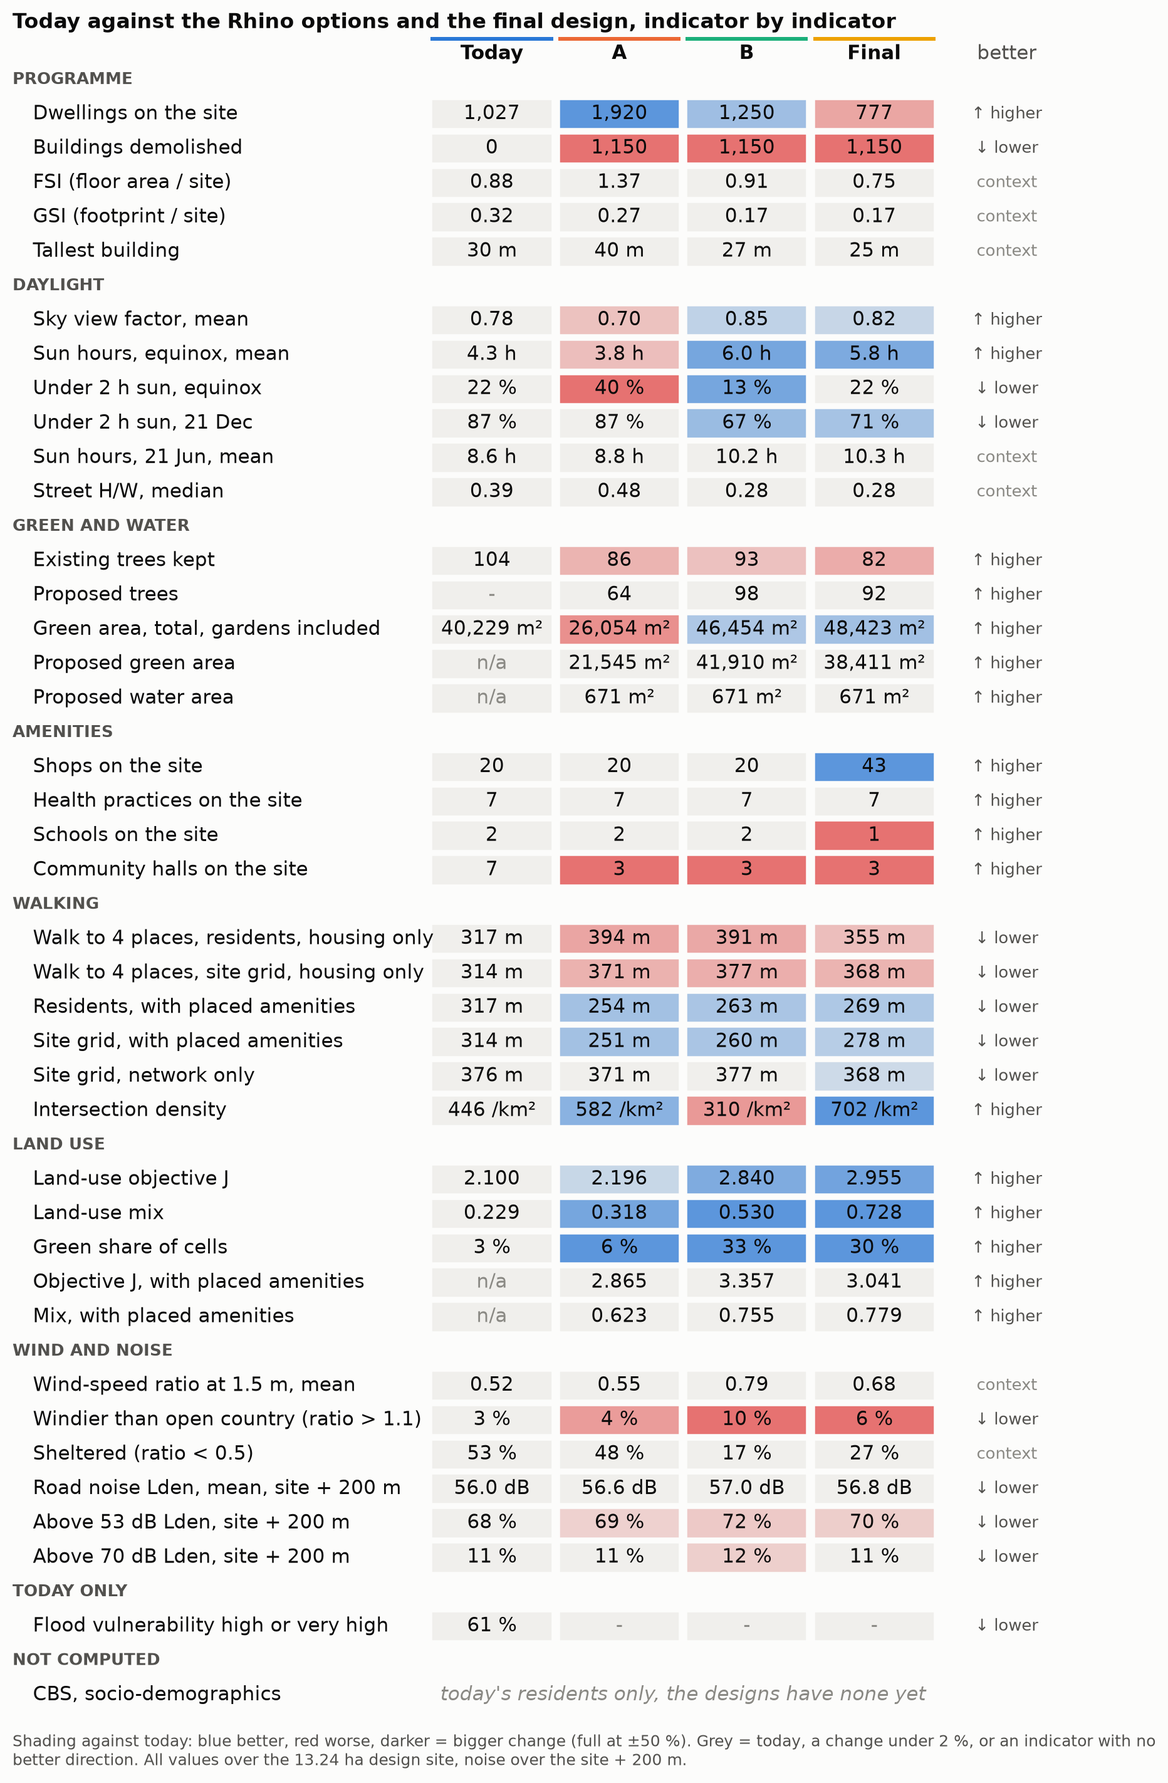
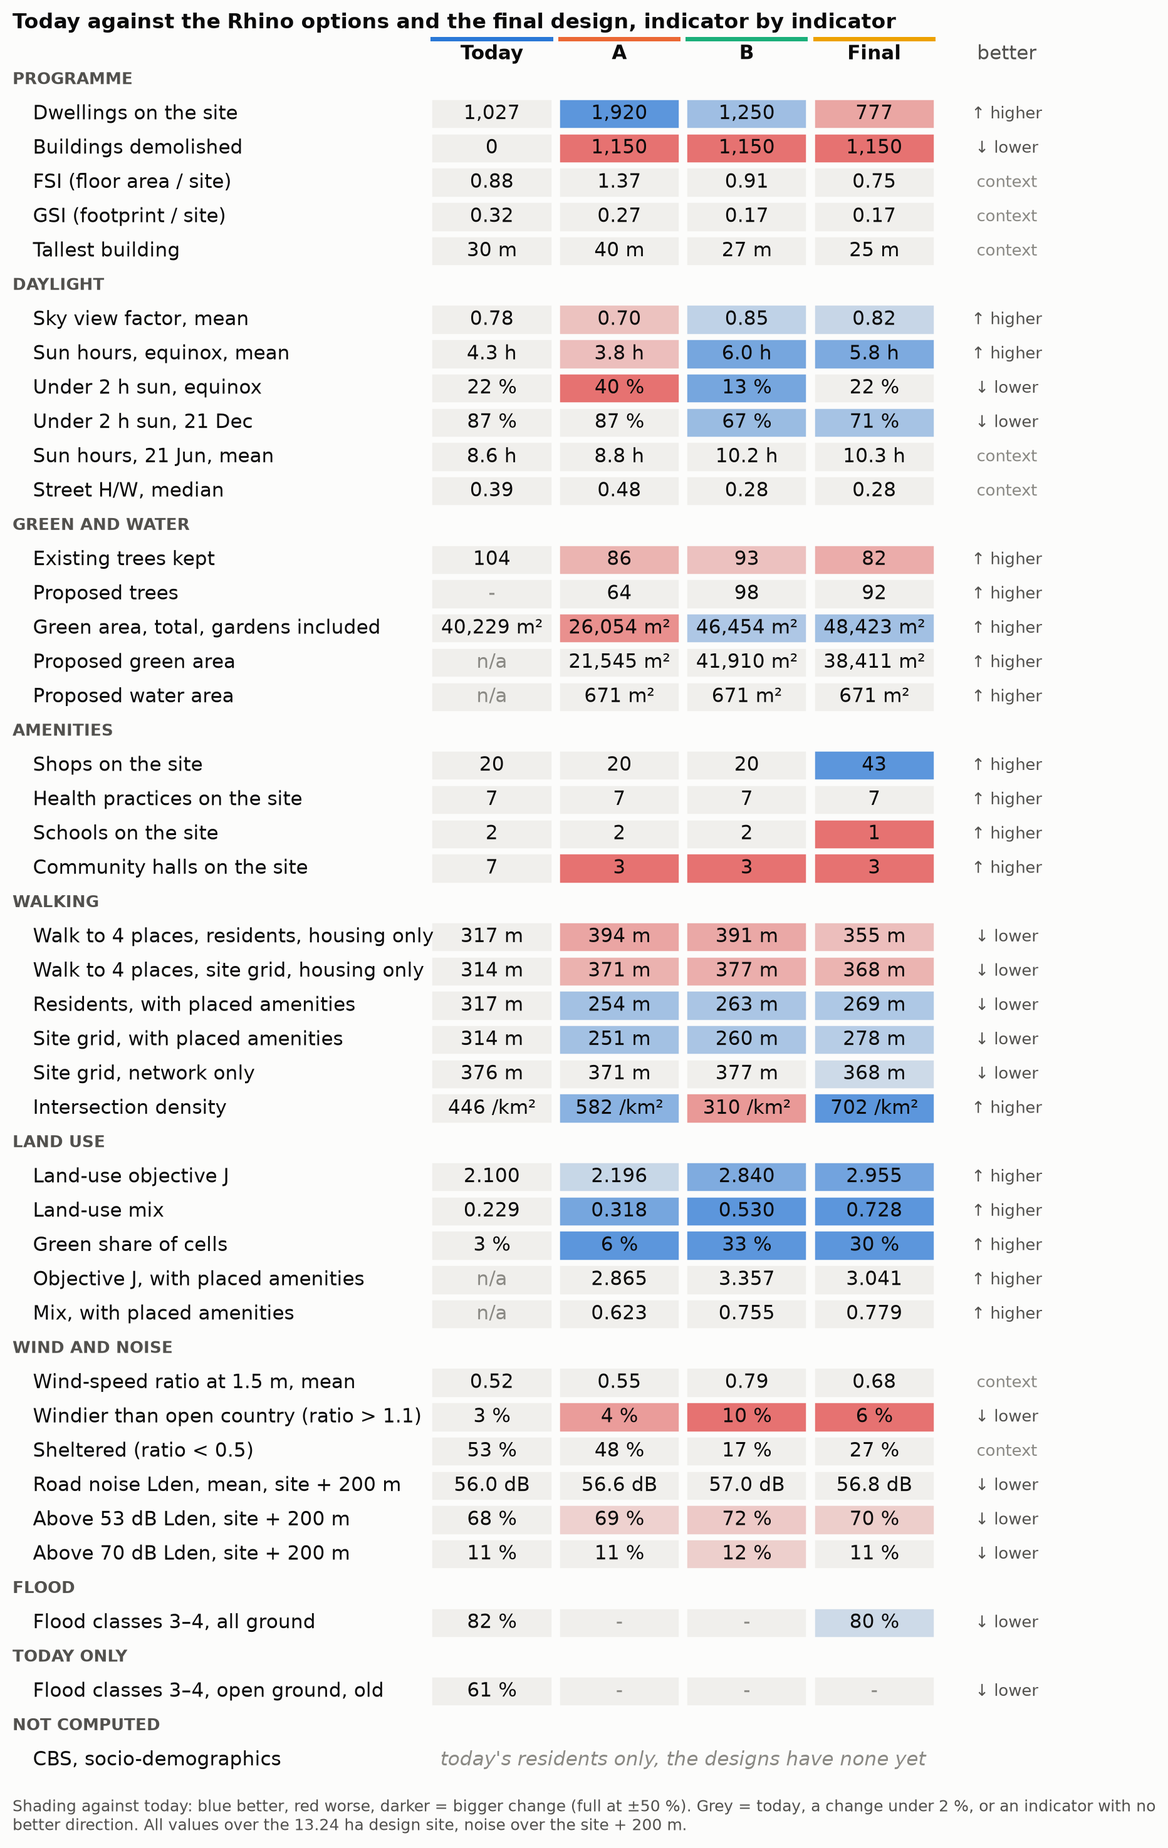
Flood: today reclassified with the new method, so today and the final design compare
Cyrille's OverallRiskOldReclassified.tif is today's city run with the method of the
final massing run. Outside the design site the two agree in all but 83 of 17.1 million
cells. Both now sit on one layer, overall_new, and the final run is no longer flagged.
The old seven layers stay as today's. The flood card compares today and the final
design, and the scenario comparison gains the classes 3-4 share (82 % today, 80 % final).

diff --git a/app/modules/flood.js b/app/modules/flood.js
@@ -14,10 +14,12 @@
  * Each checkbox follows the scenario switch, like the wind and noise maps: it
  * shows flood_summary[_scenario].json's image for the selected scenario. A
  * design scenario without a run shows nothing (with a notice), rather than
- * today's map under the new buildings. The final design has an overall run
- * since 2026-11-03, made with a newer method, so it is flagged as not
- * comparable with today's map, on the map and in the card. Elevation is the AHN DTM, empty under buildings, so
- * hazard / combined / overall describe open ground.
+ * today's map under the new buildings. Elevation is the AHN DTM, empty under
+ * buildings, so hazard / combined / overall describe open ground.
+ *
+ *   overall_new = overall vulnerability with Cyrille's 2026-11-03 method, on all
+ *                 ground, for today and the final design (since 2026-11-03).
+ *                 The card compares the two; the old layers are today only.
  * ========================================================================== */
 
 export async function setup(ctx) {
@@ -67,7 +69,6 @@ export async function setup(ctx) {
           const layer = viewer.imageryLayers.addImageryProvider(p);
           layer.alpha = 0.8;
           layer.show = false;  //refresh() decides
-          layer.notComparable = sum.comparable_with_baseline === false;  //a run made with a newer method than today's
           return layer;
         }).catch((err) => {
           console.warn(`[flood] ${L.id} overlay failed for ${sc}`, err);
@@ -81,8 +82,6 @@ export async function setup(ctx) {
       const want = current;
       if (on) load(want).then((l) => {
         if (!l && on && want === current) ctx.note(`${L.label}: no run for ${want}`, "warn");
-        if (l?.notComparable && on && want === current)  //say so whenever the flagged map is shown
-          ctx.note(`${L.label}, ${want}: newer method than today's map, do not compare the two`, "warn");
       });
       //each image decides when it resolves, from the state at that moment
       for (const [sc, p] of images) p.then((l) => {
@@ -101,27 +100,28 @@ export async function setup(ctx) {
   }
 
   /* ---- panel: overall vulnerability shares per area ----------------------
-   * The selected scenario's figures when it has a run, else today's, said so. */
+   * The new method's table compares today with the selected design when it has
+   * a run; the old method's table is today only. */
   const pct = (v) => (v == null ? "—" : `${Math.round(v * 100)}`);
   const swatch = (c) =>
     `<i style="width:10px;height:10px;background:${c};display:inline-block;border-radius:2px;vertical-align:-1px"></i>`;
 
-  function table(sum) {
-    const overall = sum.layers.find((l) => l.id === "overall");
-    const combined = sum.layers.find((l) => l.id === "combined");
-    const classes = overall.legend.map((x) => x.label);
+  //rows: [label, stats of one area, mean score or undefined]; mean adds the old method's combined-score column
+  function table(head, legend, rows, mean) {
+    const classes = legend.map((x) => x.label);
     return (
-      `<table class="kv"><thead><tr><th>overall, % of ground</th>` +
-      overall.legend.map((x) => `<th>${swatch(x.colour)} ${x.label.split(" ")[0]}</th>`).join("") +
-      `<th>mean score</th></tr></thead><tbody>` +
-      Object.keys(overall.stats)
-        .map((a) => {
-          const s = overall.stats[a]?.shares || {};
-          const m = combined?.stats[a]?.mean;
+      `<table class="kv"><thead><tr><th>${head}</th>` +
+      legend.map((x) => `<th>${swatch(x.colour)} ${x.label.split(" ")[0]}</th>`).join("") +
+      (mean ? `<th>mean score</th>` : `<th>3–4</th>`) + `</tr></thead><tbody>` +
+      rows
+        .map(([label, st, m]) => {
+          const s = st?.shares || {};
           return (
-            `<tr><td>${a}</td>` +
+            `<tr><td>${label}</td>` +
             classes.map((c) => `<td>${pct(s[c])}</td>`).join("") +
-            `<td>${m == null ? "—" : m.toFixed(1)}</td></tr>`
+            (mean ? `<td>${m == null ? "—" : m.toFixed(1)}</td>`
+              : `<td><b>${pct(s["3"] == null ? null : s["3"] + s["4 high"])}</b></td>`) +  //high or very high
+            `</tr>`
           );
         })
         .join("") +
@@ -130,20 +130,26 @@ export async function setup(ctx) {
   }
 
   async function render(sc) {
-    const sum = await summaryFor(sc);
+    const sum = sc === "baseline" ? data : await summaryFor(sc);
     if (sc !== current) return;  //switched again while loading
-    const own = sum?.layers?.some((l) => l.id === "overall");
+    const overall = data.layers.find((l) => l.id === "overall");
+    const combined = data.layers.find((l) => l.id === "combined");
+    const today = data.layers.find((l) => l.id === "overall_new");  //today's run with the new method
+    const run = sc === "baseline" ? null : sum?.layers?.find((l) => l.id === "overall_new");  //the design's
+    const rows = today ? Object.keys(today.stats).flatMap((a) =>
+      [[`${a}, today`, today.stats[a]], ...(run ? [[`${a}, ${sc}`, run.stats[a]]] : [])]) : [];
     body.innerHTML =
-      (own || sc === "baseline" ? ""
-        : `<p class="muted"><b>No flood run for ${sc}.</b> The table shows today's city; ` +
+      (sc === "baseline" || run ? ""
+        : `<p class="muted"><b>No flood run for ${sc}.</b> The tables show today's city; ` +
           `the map layers stay empty on this scenario.</p>`) +
-      (own && sum.comparable_with_baseline === false  //a run with a newer method: flagged above its table
-        ? `<p class="muted"><b>Overall vulnerability only, newer method.</b> ${sum.method_note}</p>` : "") +
-      table(own ? sum : data) +
+      (today ? table("new method, % of all ground", today.legend, rows) +
+        `<p class="muted">${today.method_note}</p>` : "") +
+      table("old method, % of open ground, today", overall.legend,
+        Object.keys(overall.stats).map((a) => [a, overall.stats[a], combined?.stats[a]?.mean]), true) +
       `<p class="muted">Each factor is scored 1–4: distance to water (0–50 m = 4), ground ` +
       `level (below −0.99 m NAP = 4) and buildings per cell (more than 10 = 4). The combined ` +
-      `score is their sum; <em>overall</em> bands it into four classes. Ground level comes from ` +
-      `AHN, which is empty under buildings, so these describe the open ground. Analysis by ` +
+      `score is their sum; <em>overall</em> bands it into four classes. In the old method ground level comes from ` +
+      `AHN, which is empty under buildings, so its layers describe the open ground. Analysis by ` +
       `Cyrille (QGIS); layers under <em>Flood vulnerability</em>, following the scenario switch.</p>`;
   }
 

diff --git a/app/modules/comparison.js b/app/modules/comparison.js
@@ -2,7 +2,7 @@
  * modules/comparison.js - component 9: scenario comparison
  * OWNER: Atanas Malinkov
  *
- * Today against the two Rhino options on the design site, one row per
+ * Today against the Rhino options and the final design on the site, one row per
  * indicator, written by analysis/comparison/compare_scenarios.py into
  *   data/processed/scenario_comparison.json
  * Each scenario cell shows the value and its change against today, green when
@@ -36,13 +36,14 @@ const ROWS = [  //key, label, digits, as a percentage
   ["wind_over11", "Windier than open country (> 1.1)", 0, true],  //OpenFOAM, open ground at 1.5 m
   ["noise_mean_db", "Road noise Lden, site + 200 m (dB)", 1, false],  //NoiseModelling
   ["noise_over53", "Above 53 dB Lden, site + 200 m", 0, true],
+  ["flood_high_new", "Flood vulnerability high or very high", 0, true],  //Cyrille's new method, all ground
 ];
 
 export async function setup(ctx) {
   const body = ctx.registerPanel({
     id: "comparison",
     title: "Scenario comparison",
-    subtitle: "design site · today against A and B",
+    subtitle: "design site · today against A, B and the final design",
     order: 7,
   });
   const data = await ctx.loadJson(PATH, { quiet: true });

diff --git a/analysis/flood/import_cyrille.py b/analysis/flood/import_cyrille.py
@@ -7,11 +7,14 @@ QGIS / QGIS Files - UPDATED / BZO_NEW_*.tif). We only clip, warp and colour it
 and summarise it per area.
 
     python analysis/flood/import_cyrille.py [RASTER_DIR]
-    python analysis/flood/import_cyrille.py --scenario final
+    python analysis/flood/import_cyrille.py --scenario baseline final
 
 RASTER_DIR defaults to cache/flood/raw/ (gitignored) and must hold the
 BZO_NEW_*.tif files in LAYERS, from the shared QGIS.zip, 76 MB each.
---scenario imports a design's run from SCENARIO_RUNS instead (overall only).
+--scenario imports the runs in SCENARIO_RUNS instead: overall vulnerability
+with Cyrille's newer method (2026-11-03), for today and the final design, as
+its own layer overall_new. Today's run goes into flood_summary.json beside the
+old seven layers.
 
 Each factor scores 1 (low) to 4 (high), per "QGIS Layer Coding.pdf"
   water proximity   0-50 / 50-100 / 100-250 / 250+ m to water      -> 4..1
@@ -81,14 +84,20 @@ LAYERS = [
      "about": "road distance to water, scored 1–4"},
 ]
 
-#design runs Cyrille sent later, one overall raster each, in cache/flood/raw/
-#the final run uses a newer method than today's, so it is flagged as not comparable (Atanas, 2026-11-03)
+#overall vulnerability with Cyrille's newer method: classes 1-4 on all ground, under buildings too
+OVERALL_NEW = {**LAYERS[0], "id": "overall_new", "label": "Overall flood vulnerability, new method",
+               "about": "overall score banded into four classes, Cyrille's 2026-11-03 method, all ground"}
+NEW_METHOD = ("Cyrille's 2026-11-03 method: every cell has a class, ground under buildings "
+              "included, so it is not the old overall layer. Today and the final design were "
+              "run with it. Outside the design site, where both have a class, they agree in all "
+              "but 83 of 17.1 million cells.")
+
+#runs Cyrille sent later, one overall raster each, in cache/flood/raw/ (Atanas, 2026-11-03)
 SCENARIO_RUNS = [
-    {"scenario": "final", "layer": "overall", "file": "OverallRiskFinalMassing.tif",
-     "source": "Cyrille Kummer, QGIS, overall risk for the final massing (received 2026-11-03)",
-     "note": "Newer method than today's run. Outside the design site, where the final design "
-             "changes nothing, it matches today's classes in only 50 % of cells: class 1 is "
-             "absent and ground under buildings has a class. Not comparable with today's map."},
+    {"scenario": "baseline", "layer": OVERALL_NEW, "file": "OverallRiskOldReclassified.tif",
+     "source": "Cyrille Kummer, QGIS, today's city reclassified with the new method (received 2026-11-03)"},
+    {"scenario": "final", "layer": OVERALL_NEW, "file": "OverallRiskFinalMassing.tif",
+     "source": "Cyrille Kummer, QGIS, overall risk for the final massing (received 2026-11-03)"},
 ]
 
 
@@ -190,23 +199,24 @@ def layer_entry(L, a, tr, crs, masks, png, source_file):
 
 
 def import_scenario(run, areas):
-    #one design run: flood_<layer>_<scenario>.png and flood_summary_<scenario>.json, as today's layout
+    #one later run: flood_<layer>[_<scenario>].png, in flood_summary[_<scenario>].json
     import rasterio.features
     path = RAW / run["file"]
     if not path.exists():
         sys.exit(f"Missing {path}. Copy Cyrille's raster there (cache/ is gitignored).")
-    L = next(l for l in LAYERS if l["id"] == run["layer"])
+    L, sc = run["layer"], run["scenario"]
+    sfx = "" if sc == "baseline" else f"_{sc}"  #the baseline keeps the plain names
     a, tr, crs = read(None, path)
     masks = {n: rasterio.features.geometry_mask([p], a.shape, tr, invert=True) for n, p in areas.items()}
-    entry = layer_entry(L, a, tr, crs, masks, f"flood_{L['id']}_{run['scenario']}.png", run["file"])
-    write_processed(f"flood_summary_{run['scenario']}.json", {
-        "source": run["source"] + "; imported, not recomputed",
-        "scenario": run["scenario"],
-        "cell_size_m": 0.5,
-        "comparable_with_baseline": False,  #the app says so next to the table
-        "method_note": run["note"],
-        "layers": [entry],
-    })
+    entry = layer_entry(L, a, tr, crs, masks, f"flood_{L['id']}{sfx}.png", run["file"])
+    entry.update({"source": run["source"] + "; imported, not recomputed", "method_note": NEW_METHOD})
+    if sc == "baseline":  #today: beside the old seven layers, replacing an earlier import of this one
+        summary = json.loads((PROCESSED / "flood_summary.json").read_text())
+        summary["layers"] = [l for l in summary["layers"] if l["id"] != L["id"]] + [entry]
+    else:
+        summary = {"source": run["source"] + "; imported, not recomputed", "scenario": sc,
+                   "cell_size_m": 0.5, "layers": [entry]}
+    write_processed(f"flood_summary{sfx}.json", summary)
 
 
 def main():
@@ -246,6 +256,9 @@ def main():
                                              f"BZO_NEW_{L['file']}.tif"))
 
     write_processed("flood_summary.json", summary)
+    for run in SCENARIO_RUNS:  #today's new-method run, put back beside the old layers when its raster is here
+        if run["scenario"] == "baseline" and (RAW / run["file"]).exists():
+            import_scenario(run, areas)
 
     global summary_overall
     ov = next(l for l in summary["layers"] if l["id"] == "overall")["stats"]

diff --git a/analysis/comparison/compare_scenarios.py b/analysis/comparison/compare_scenarios.py
@@ -239,12 +239,15 @@ def amenities(sc):
 
 
 def flood(sc):
-    #Cyrille's flood vulnerability, today only
-    d = J("flood_summary.json")
-    if sc != "baseline" or not d:
-        return {}
-    sh = [l for l in d["layers"] if l["id"] == "overall"][0]["stats"]["Design site"]["shares"]
-    return {"flood_high": round(sh["3"] + sh["4 high"], 3)}
+    #Cyrille's flood vulnerability: the old method today only, the new method today and the final design
+    out = {}
+    d = J("flood_summary.json" if sc == "baseline" else f"flood_summary_{sc}.json")  #None while a stub
+    for key, lid in (("flood_high", "overall"), ("flood_high_new", "overall_new")):
+        L = next((l for l in (d or {}).get("layers", []) if l["id"] == lid), None)
+        if L and not (lid == "overall" and sc != "baseline"):  #the old method has today only
+            sh = L["stats"]["Design site"]["shares"]
+            out[key] = round(sh["3"] + sh["4 high"], 3)
+    return out
 
 
 def wind_noise(sc):
@@ -300,12 +303,13 @@ INDICATORS = [
     ("noise_mean_db", "Wind and noise", "Road noise Lden, mean, site + 200 m", " dB", "lower", 1, "noise_*.json"),
     ("noise_over53", "Wind and noise", "Above 53 dB Lden, site + 200 m", "%", "lower", 0, "noise_*.json"),  #Bkl standard value
     ("noise_over70", "Wind and noise", "Above 70 dB Lden, site + 200 m", "%", "lower", 0, "noise_*.json"),  #Bkl limit, municipal roads
-    ("flood_high", "Today only", "Flood vulnerability high or very high", "%", "lower", 0, "flood_summary.json"),
+    ("flood_high_new", "Flood", "Flood classes 3–4, all ground", "%", "lower", 0, "flood_summary*.json"),  #Cyrille's 2026-11-03 method
+    ("flood_high", "Today only", "Flood classes 3–4, open ground, old", "%", "lower", 0, "flood_summary.json"),
 ]
 NOT_RUN = [("CBS", "socio-demographics", "today's residents only, the designs have none yet")]  #the app has a CBS card since 2026-11-03
 NOT_TODAY = {"green_area_m2", "water_area_m2",  #no today value: proposed planting
              "lu_objective_amen", "lu_mix_amen"}  #and the land use with placed amenities
-PERCENT = {"sun_under2h_0320", "sun_under2h_1221", "lu_green_share", "flood_high",
+PERCENT = {"sun_under2h_0320", "sun_under2h_1221", "lu_green_share", "flood_high", "flood_high_new",
            "wind_over11", "wind_sheltered", "noise_over53", "noise_over70"}  #shares, shown as %
 
 

diff --git a/analysis/flood/README.md b/analysis/flood/README.md
@@ -40,31 +40,41 @@ water-proximity score is real: OSM has a 772 m water body there.
   overall cover open ground only (62 % of cells).
 - "Buildings per cell" counts buildings, not floor area or coverage, so many
   small buildings score higher than one large one.
-- Today's city has all seven layers. The final design has the overall layer only,
-  and from a newer method (below). Scenario A and B have no run: the app's layers
-  follow the scenario switch and show nothing (with a notice) there, and
-  `flood_summary_scenario_a.json` / `_scenario_b.json` are stubs.
+- Today's city has all seven layers. The final design has only the new method's
+  overall layer (below), which today has too. Scenario A and B have no run: the
+  app's layers follow the scenario switch and show nothing (with a notice) there,
+  and `flood_summary_scenario_a.json` / `_scenario_b.json` are stubs.
 
-## The final design's run
+## The new method: today and the final design
 
-Cyrille sent `OverallRiskFinalMassing.tif` on 2026-11-03: overall vulnerability for
-the final massing, on the same 0.5 m grid as today's. Copy it to `cache/flood/raw/`, then
+On 2026-11-03 Cyrille sent two overall rasters made with a newer method, on the same
+0.5 m grid as today's: `OverallRiskOldReclassified.tif` (today's city) and
+`OverallRiskFinalMassing.tif` (the final massing). Copy both to `cache/flood/raw/`, then
 
 ```bash
-python analysis/flood/import_cyrille.py --scenario final
+python analysis/flood/import_cyrille.py --scenario baseline final
 ```
 
-writes `flood_overall_final.png` and `flood_summary_final.json`. Design site: class 2
-20 %, class 3 63 %, class 4 17 %, no class 1.
+adds them as their own layer, `overall_new`: `flood_overall_new.png` goes into
+`flood_summary.json` beside the old seven layers, and `flood_overall_new_final.png`
+into `flood_summary_final.json`. A full re-import of the old layers puts today's
+new-method run back when its raster is there.
 
-**It is not comparable with today's map.** Outside the design site, where the final
-design changes nothing, it matches today's classes in only 50 % of cells: today's
-class 1 became class 2 in 94 % of its cells, class 1 is absent everywhere, and
-ground under buildings now has a class (99.7 % of Bloemhof covered against 64.5 %).
-So the method changed between the runs. The summary carries
-`comparable_with_baseline: false`, the app says so on the map and in the card, and
-the scenario comparison keeps using today's run only. A comparison needs today's
-city re-run with the same method.
+The new method gives every cell a class, ground under buildings included (100 % of
+Bloemhof covered against 64.5 % in the old run), so it is not the old overall layer.
+Outside the design site, where both runs have a class, today and the final design
+agree in all but 83 of 17.1 million cells, so the two are comparable. Class 1 is
+absent on the site and covers only 65 cells in Bloemhof.
+
+| design site, % of ground | 2 | 3 | 4 | 3–4 |
+|---|---|---|---|---|
+| today | 18 | 73 | 9 | 82 |
+| final design | 20 | 63 | 17 | 80 |
+
+The final design moves ground both ways: classes 3–4 fall from 82 % to 80 %, but
+class 4 almost doubles. The app's flood card shows both rows, and the scenario
+comparison carries the 3–4 share as `flood_high_new`. Today's old-method share
+(61 % of open ground) stays as `flood_high`, today only.
 
 ## Adding a design scenario
 

diff --git a/analysis/comparison/README.md b/analysis/comparison/README.md
@@ -96,7 +96,8 @@ Wind (OpenFOAM, the design site's open ground at 1.5 m) and road noise
 | road noise Lden, mean, site + 200 m | 56.0 dB | 56.6 dB | 57.0 dB | 56.8 dB | lower |
 | above 53 dB Lden, site + 200 m | 68 % | 69 % | 72 % | 70 % | lower |
 | above 70 dB Lden, site + 200 m | 11 % | 11 % | 12 % | 11 % | lower |
-| flood vulnerability high or very high | 61 % | not run | not run | not run | lower |
+| flood classes 3–4, all ground (new method) | 82 % | not run | not run | 80 % | lower |
+| flood classes 3–4, open ground (old method) | 61 % | not run | not run | not run | lower |
 
 Sources: dwellings from `road_metrics.json` (BAG today, the road network's
 estimate in the scenarios), demolition and heights from `design_massing.geojson`,
@@ -108,7 +109,8 @@ and `shadow_summary*.json`, H/W from `canyon_hw_*.json`, trees from
 `design_planting.geojson`, walking from `road_metrics.json` and
 `amenity_placement.json` (today with its own amenities, and the placed ones),
 land use from `landuse_scenarios.json` (the site, open ground between blocks
-counted vacant as on today's grid), flood from `flood_summary.json`.
+counted vacant as on today's grid), flood from `flood_summary.json` and
+`flood_summary_final.json`.
 
 **A trades daylight for homes.** It nearly doubles the dwellings (1,027 to an
 estimated 1,920) and its share of open ground with under 2 h of sun at the
